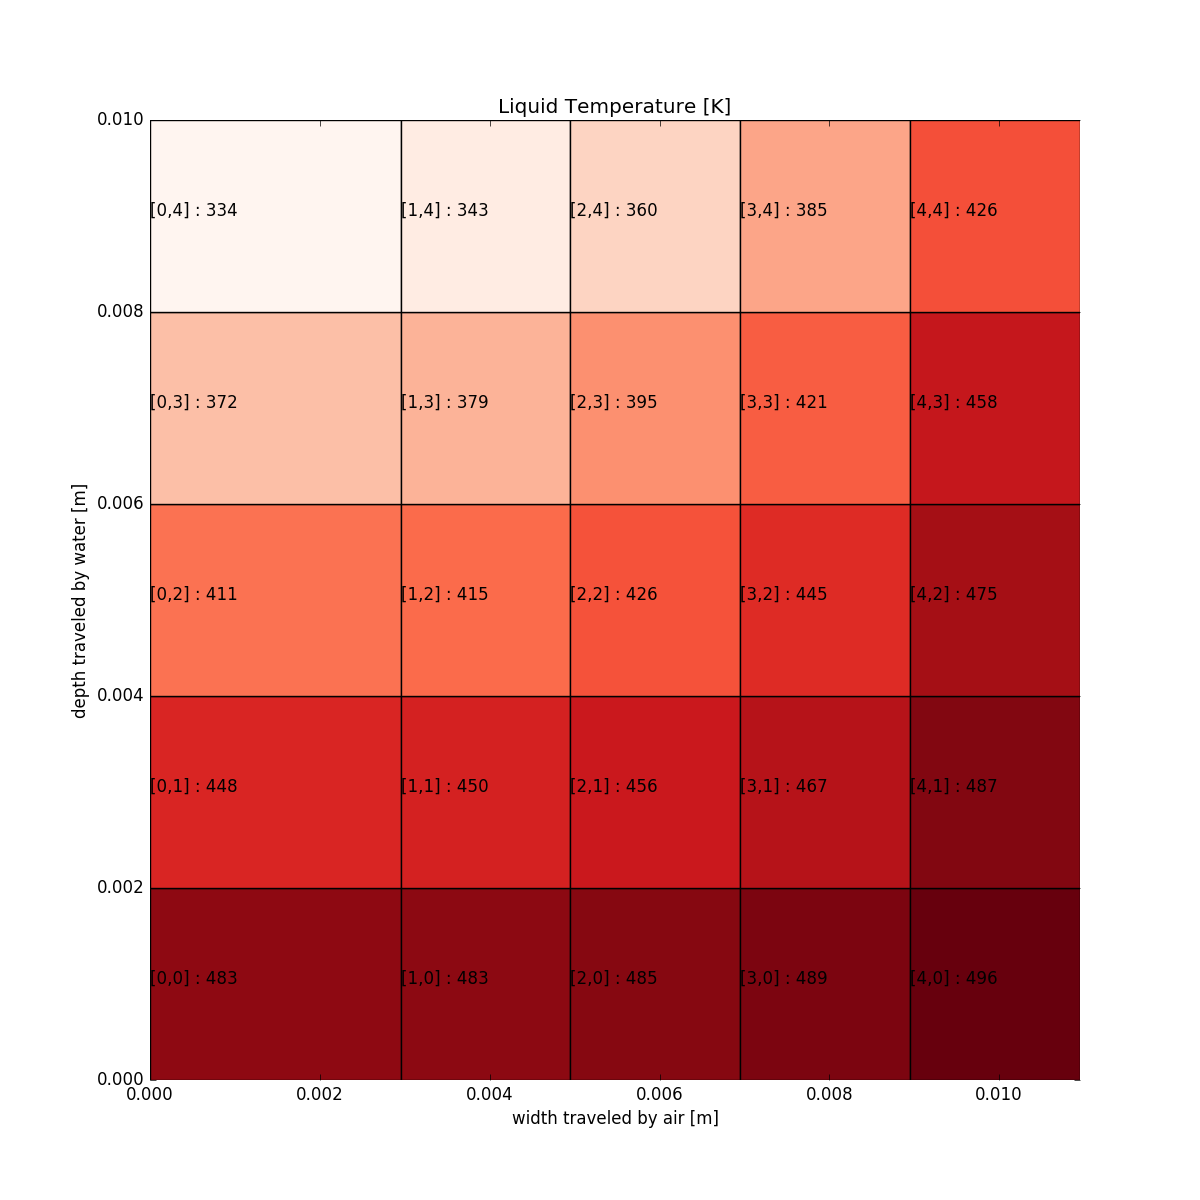
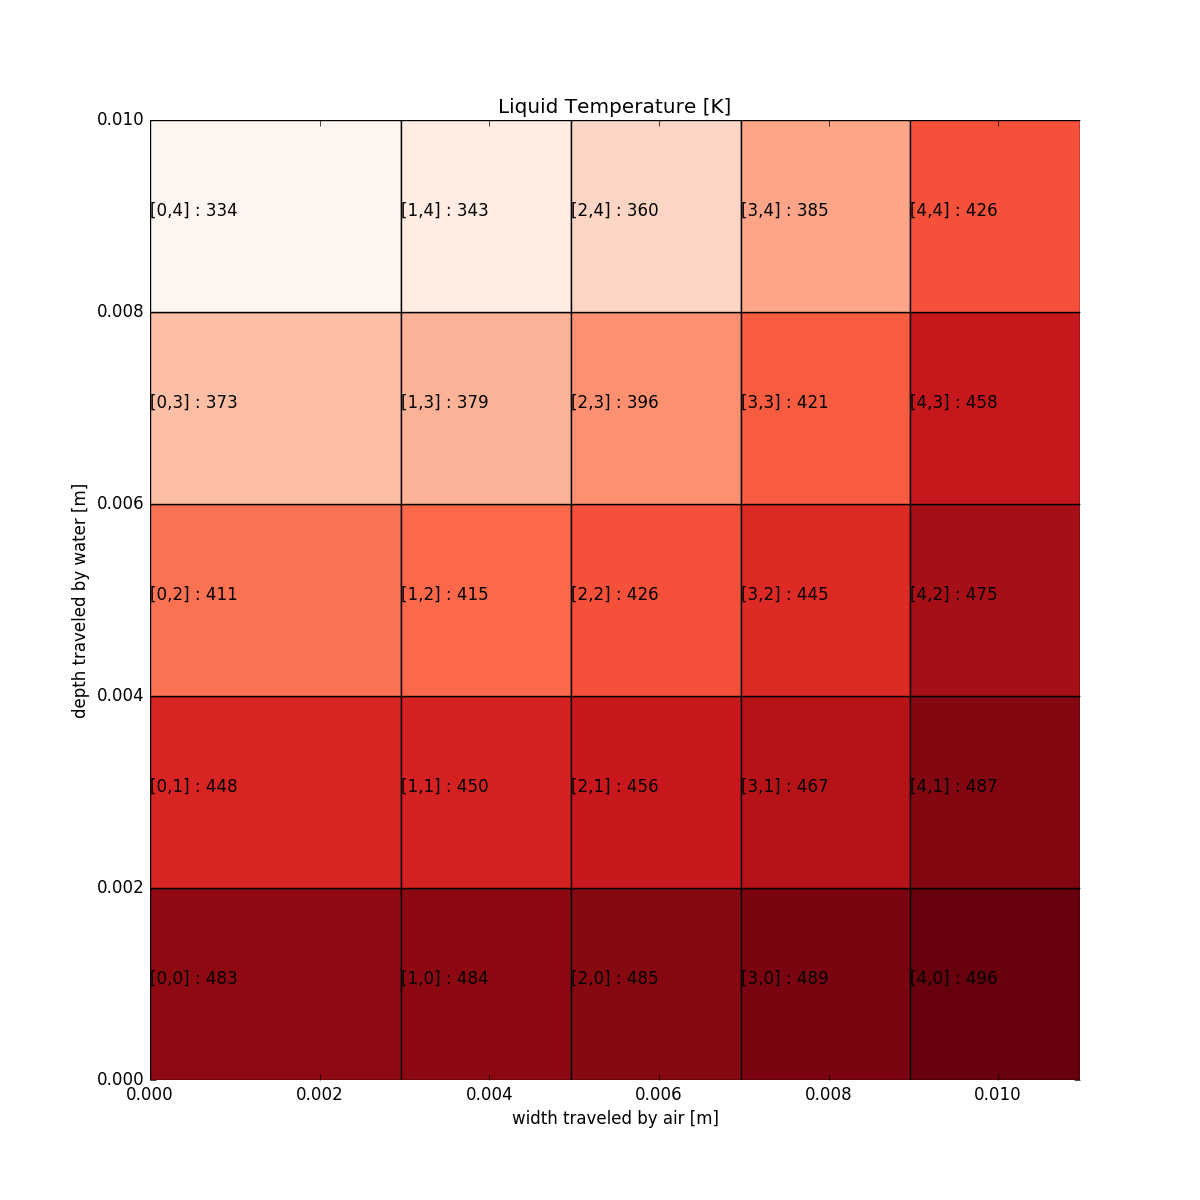
Added thermal barrier for plate.

diff --git a/heatexchanger/hxarea.py b/heatexchanger/hxarea.py
@@ -1,4 +1,4 @@
-from gpkit import Model, parse_variables, SignomialsEnabled
+from gpkit import Model, parse_variables, SignomialsEnabled, units
 
 # Assumes hot water going S->N, and cold air going W->E, [0,0] at RH corner
 class HXArea(Model):
@@ -6,14 +6,17 @@ class HXArea(Model):
     Variables
     ---------
     h_hot       [W/K/m^2]    convective heat transfer coefficient of liquid
-    h_cld      [W/K/m^2]    convective heat transfer coefficient of air
+    h_cld       [W/K/m^2]    convective heat transfer coefficient of air
     T_hot       [K]          liquid temperature in cell
     T_cld       [K]          air temperature in cell
-    T_r         [K]          wall temperature in cell
+    T_r         [K]          wall internal temperature in cell
+    Tr_hot      [K]          hot fluid-wall interface temperature
+    Tr_cld      [K]          cold fluid-wall interface temperature
     A_hx        [m^2]        area of contact between liquid and air
     dQ          [W]          heat transferred from liquid to air by cell
     x_cell      [m]          x-width of cell
     y_cell      [m]          y-width of cell
+    t_plate     [m]          thickness of separating plate
 
     Upper Unbounded
     ---------------
@@ -24,10 +27,25 @@ class HXArea(Model):
     dQ, T_cld, T_r
 
     """
-    def setup(self):
+
+    # t_hot       [m]          fin thickness in liquid
+    # t_cld       [m]          fin thickness in gas
+    # mL_hot      [-]          hot fin parameter
+    # mL_cld      [-]          cold fin parameter
+    # eta_hot     [-]          hot fin efficiency
+    # eta_cld     [-]          cold fin efficiency 
+
+    def setup(self, material):
         exec parse_variables(HXArea.__doc__)
         with SignomialsEnabled():  # note that this turns into a posynomial
-            return [dQ <= (T_hot-T_r)*h_hot*A_hx,
-                    dQ <= (T_r-T_cld)*h_cld*A_hx,
-                    A_hx == x_cell * y_cell]
+            return [dQ     <= (T_hot-Tr_hot)*h_hot*A_hx,
+                    dQ     <= (Tr_cld-T_cld)*h_cld*A_hx,
+                    A_hx   == x_cell * y_cell,
+                    T_hot  >= Tr_hot,
+                    Tr_hot >= T_r + 0.5*dQ*t_plate/(material.k*A_hx),
+                    T_r    >= Tr_cld + 0.5*dQ*t_plate/(material.k*A_hx),
+                    Tr_cld >= T_cld,
+                    t_plate >= 0.01*units('cm'),
+                    #mL_cld == h_cld*(h_cld*x_cell)/(material.k*)
+                    ]
 

diff --git a/heatexchanger/layer.py b/heatexchanger/layer.py
@@ -38,9 +38,11 @@ class Layer(Model):
                                          substitutions={"T_in": 500,
                                                         "v_in": 5})
             self.waterpipes = waterpipes
+
+        material = StainlessSteel()
         with Vectorize(Nwaterpipes):
             with Vectorize(Nairpipes):
-                c = self.c = HXArea()
+                c = self.c = HXArea(material)
 
         waterCf = []
         airCf = []
@@ -87,16 +89,14 @@ class Layer(Model):
         for i in range(Nwaterpipes):
             for j in range(Nairpipes):
                 geom.extend([
-                        c.dQ[i,j]    == waterpipes.dQ[i,j],
-                        c.dQ[i,j]    == airpipes.dQ[j,i],
-                        c.T_r[i,j]   == waterpipes.Tr_int[i,j],
-                        c.T_r[i,j]   == airpipes.Tr_int[j,i],
-                        c.T_hot[i,j] == waterpipes.T_avg[i,j],
-                        c.T_cld[i,j] == airpipes.T_avg[j,i],
-                        c.T_hot[i,j] >= c.T_r[i,j],
-                        c.T_r[i,j]   >= c.T_cld[i,j],
-                        c.h_hot[i,j] == waterpipes.h[i,j],
-                        c.h_cld[i,j] == airpipes.h[j,i],
+                        c.dQ[i,j]     == waterpipes.dQ[i,j],
+                        c.dQ[i,j]     == airpipes.dQ[j,i],
+                        c.Tr_hot[i,j] == waterpipes.Tr_int[i,j],
+                        c.Tr_cld[i,j] == airpipes.Tr_int[j,i],
+                        c.T_hot[i,j]  == waterpipes.T_avg[i,j],
+                        c.T_cld[i,j]  == airpipes.T_avg[j,i],
+                        c.h_hot[i,j]  == waterpipes.h[i,j],
+                        c.h_cld[i,j]  == airpipes.h[j,i],
                         waterpipes.h_seg[i,j] >= 0.2*units('cm'),
                         airpipes.h_seg[j,i] >= 0.2*units('cm'),
                     ])
